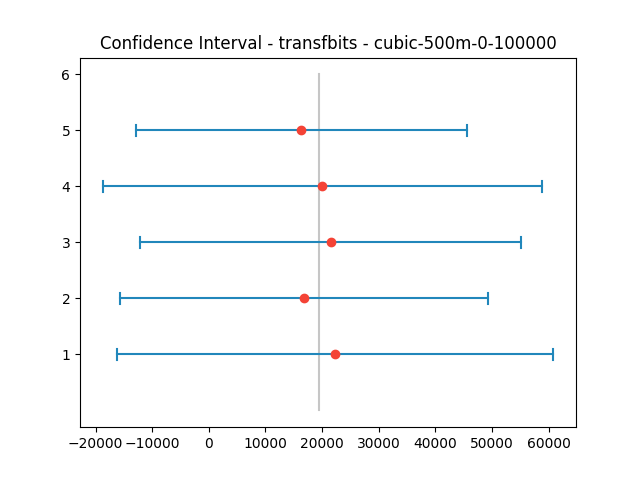
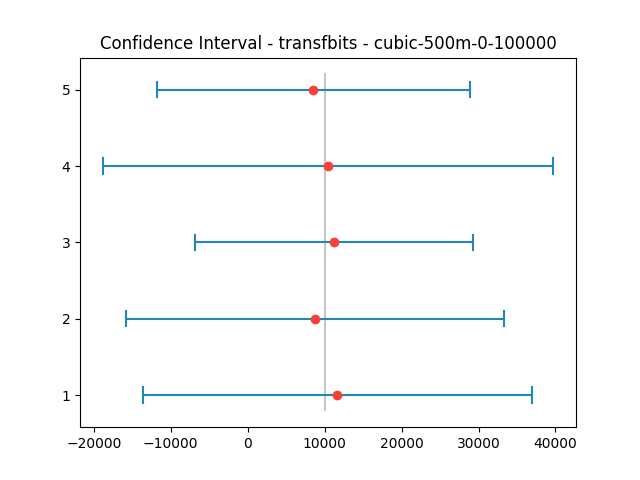
Removido ultimo item que é a media total

diff --git a/process_data.py b/process_data.py
@@ -75,6 +75,7 @@ def contruct_df_by_files(file_list):
     dataframes = []
     for file in file_list:
         df = process_data("data/" + file)
+        df = df.drop(df.index[-1])
         config = file[:-6]
         rep = file[len(file) - 5 : -4]
         df["config"] = config
@@ -106,16 +107,15 @@ def analize_data(df):
             dff1_mean = dff1[col].mean()
             plt.yticks(lista)
             plt.title(f"Confidence Interval - {col} - {uc}")
-            plt.plot([dff1_mean, dff1_mean], [0, 6], color="#5555")
+            plt.plot([dff1_mean, dff1_mean], [0.8, 5.2], color="#5555")
             i = 0
             for ur in df["rep"].unique():
                 dff2 = filter_df(df, config=uc, rep=ur)
                 dff2 = dff2.reset_index(drop=True)
                 dff2_std = dff2[col].std()
                 dff2_mean = dff2[col].mean()
-
                 margin_error = calculate_confidence_interval(
-                    dff2[col].size, dff2_std, 0.99
+                    dff2[col].size, dff2[col].std(), 0.99
                 )
                 plot_confidence_interval2(lista[i], dff2_mean, margin_error)
                 i += 1
@@ -123,6 +123,7 @@ def analize_data(df):
             result_data.append(
                 (
                     uc,
+                    col,
                     dff1[col].mean(),
                     dff1[col].std(),
                 )
@@ -130,7 +131,7 @@ def analize_data(df):
             plt.savefig(f"plots/{col}-{uc}.png")
             plt.close()
 
-    return pd.DataFrame(result_data, columns=["config", "mean", "std"])
+    return pd.DataFrame(result_data, columns=["config", "col", "mean", "std"])
 
 
 if __name__ == "__main__":
